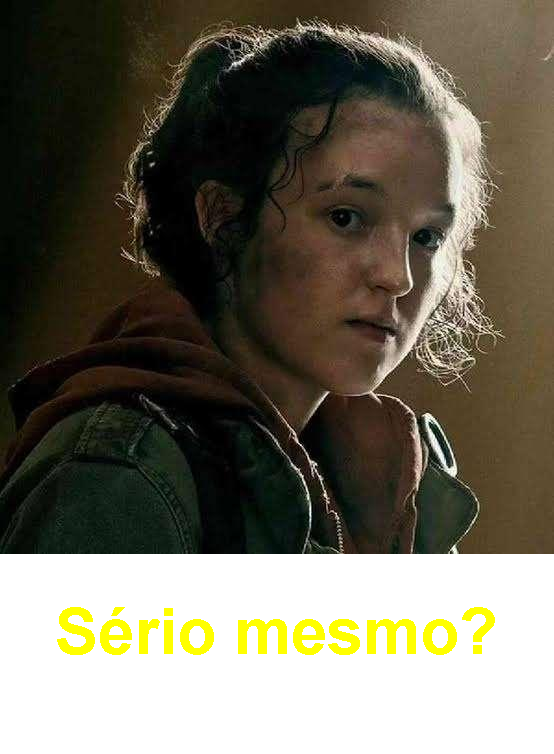
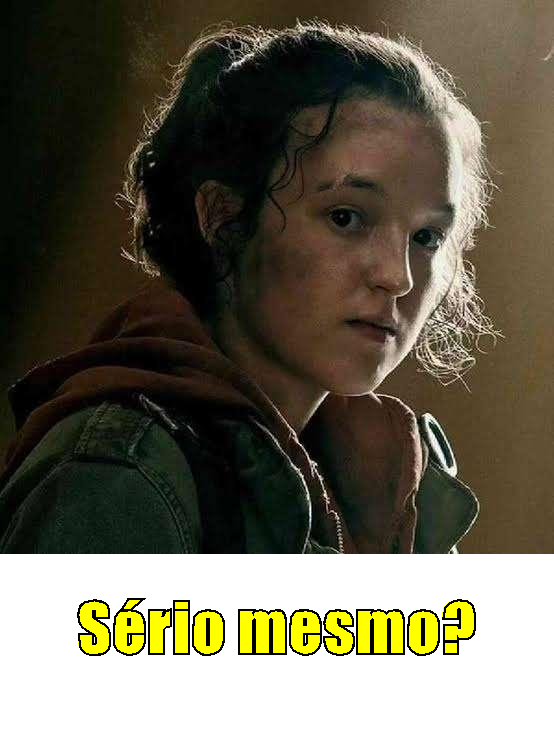
add record challenge

Changed region(s): [[0.0921, 0.7931, 0.8899, 0.8846]]

diff --git a/src/App.java b/src/App.java
@@ -5,12 +5,12 @@ import java.util.List;
 public class App {
     public static void main(String[] args) throws Exception {
         
-        String url = "https://raw.githubusercontent.com/alura-cursos/imersao-java-2-api/main/MostPopularTVs.json";
-        String apiName = "IMDB";
+        //String url = "https://raw.githubusercontent.com/alura-cursos/imersao-java-2-api/main/MostPopularTVs.json";
+        //String apiName = "IMDB";
         //String url = "https://raw.githubusercontent.com/alura-cursos/imersao-java-2-api/main/NASA-APOD.json";
         //String apiName = "NASA";
-        //String url = "https://barboza-first-api.agreeablerock-774901b7.southcentralus.azurecontainerapps.io/barboza-first-api";
-        //String apiName = "BARB";
+        String url = "https://barboza-first-api.agreeablerock-774901b7.southcentralus.azurecontainerapps.io/barboza-first-api";
+        String apiName = "BARB";
 
         // Conexão HTTP para buscar dados na API
         ClientHttp httpClient = new ClientHttp();
@@ -28,17 +28,17 @@ public class App {
         {
             Content content = contents.get(i);
 
-            System.out.println(content.getTitle());
-            System.out.println(content.getImageURL());
-            System.out.println(content.getQuote());
+            System.out.println(content.title());
+            System.out.println(content.imageURL());
+            System.out.println(content.quote());
 
             // Gerar Sticker
-            String imageURL = (content.getImageURL());
+            String imageURL = (content.imageURL());
             InputStream imageInputStream = new URL(imageURL).openStream();
-            String stickerName = (i + 1) + "_" + ((content.getTitle())
+            String stickerName = (i + 1) + "_" + ((content.title())
                 .replaceAll("[^a-zA-Z]","")
                 .trim());
-            String strickerText = (content.getQuote());
+            String strickerText = (content.quote());
 
             stickerGenerator.create(stickerName, imageInputStream, strickerText, apiName);
         }

diff --git a/src/Content.java b/src/Content.java
@@ -1,25 +1,1 @@
-public class Content {
-    
-    private final String title;
-    private final String imageURL;
-    private final String quote;
-
-    // Constructors
-    public Content(String title, String imageURL, String quote) {
-        this.title = title;
-        this.imageURL = imageURL;
-        this.quote = quote;
-    }
-
-    // Getters
-    public String getTitle() {
-        return title;
-    }
-    public String getImageURL() {
-        return imageURL;
-    } 
-    public String getQuote() {
-        return quote;
-    }
-
-}
+public record Content(String title, String imageURL, String quote) {}

diff --git a/src/StickerWritter.java b/src/StickerWritter.java
@@ -16,7 +16,7 @@ public class StickerWritter {
         // configurar fonte
         Font strickerFont = new Font("Impact", Font.BOLD, 64);
         //graphics.setColor(Color.YELLOW);
-        graphics.setColor(Color.RED);
+        graphics.setColor(Color.YELLOW);
         graphics.setFont(strickerFont);
 
         // escrever na nova imagem

diff --git a/README.md b/README.md
@@ -80,7 +80,7 @@ https://raw.githubusercontent.com/alura-cursos/imersao-java-2-api/main/NASA-APOD
 </p>
 
 ### Desafios
-1- Transformar a classe que representa os conteúdos em um Record, disponível a partir do Java 16.
+1- ✔ Transformar a classe que representa os conteúdos em um Record, disponível a partir do Java 16.
 
 2- Criar as suas próprias exceções e usá-las na classe que implementa o cliente HTTP.
 
